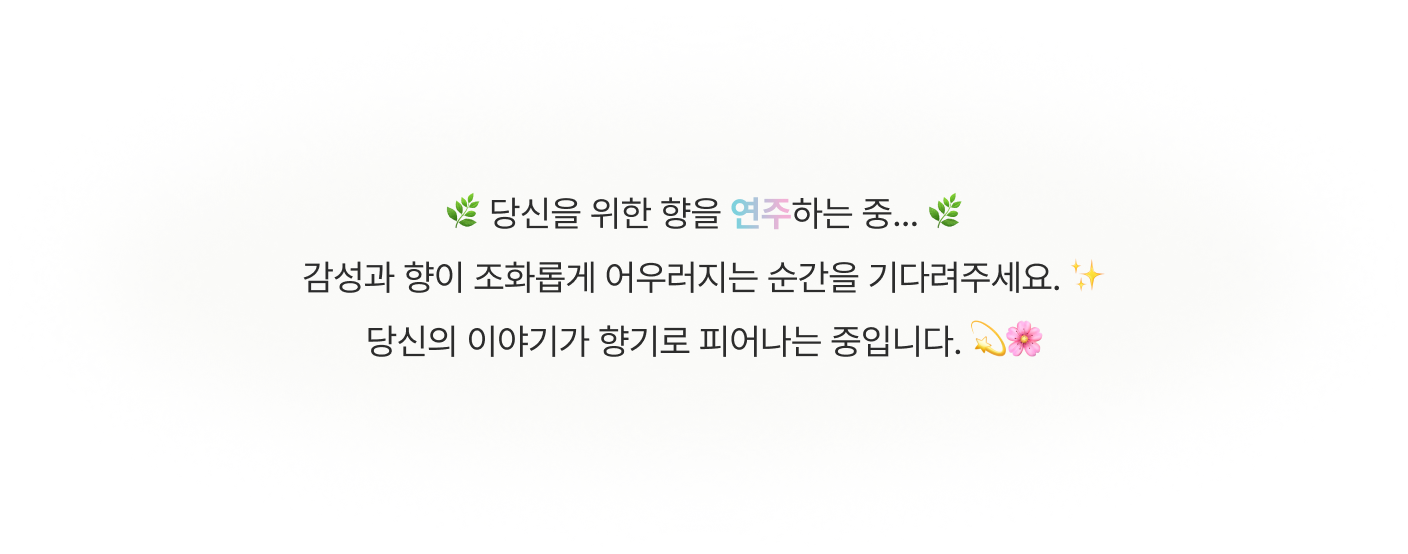
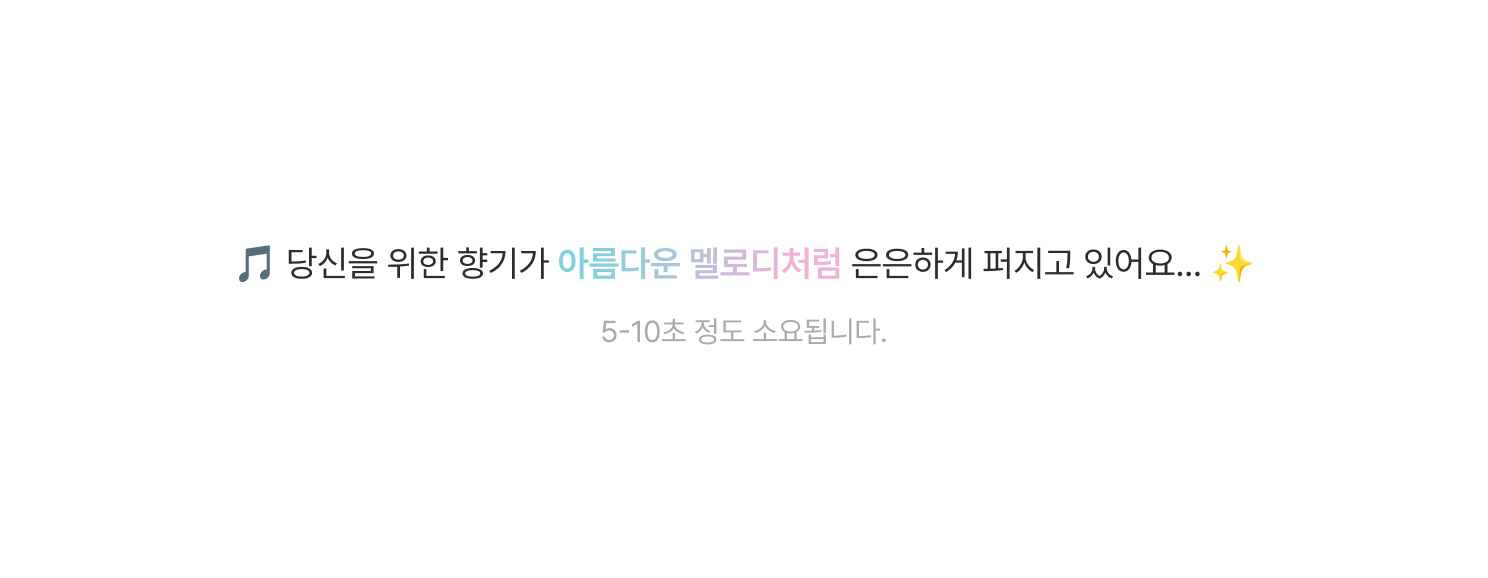
style: change loading comment box and remove padding in chat page and recoomend page

Changed region(s): [[0.1562, 0.3375, 0.8438, 0.6444]]

diff --git a/src/pages/Loading/ProduceLoadingContent.jsx b/src/pages/Loading/ProduceLoadingContent.jsx
@@ -1,7 +1,6 @@
 import { useState, useEffect, useRef } from "react";
 import { useNavigate } from "react-router-dom";
 import styled from "styled-components";
-import GradientText from "../../components/UI/common/GradientText";
 import ProduceLoadingCommentLayer from "../../assets/loading/ProduceLoadingCommentLayer";
 import ProgressBar from "../../components/UI/Chatbot/ProgressBar";
 import Modal from "../../components/UI/common/Modal";
@@ -18,47 +17,12 @@ const ContentWrapper = styled.div`
   text-align: center;
 `;
 
-const TextContainer = styled.div`
+const CommentWrapper = styled.div`
   position: relative;
-  width: 644px;
-  height: 189px;
-  display: flex;
-  flex-direction: column;
-  justify-content: center;
-  align-items: center;
-  margin-top: 219px;
-`;
-
-const StyleProduceLoadingCommentLayer = styled(ProduceLoadingCommentLayer)`
-  position: absolute;
-  top: 0;
-  left: 0;
-  width: 100%;
-  height: 100%;
+  width: 604px;
+  height: 200px;
   z-index: 1;
-`;
-
-const TextWrapper = styled.div`
-  position: absolute;
-  display: flex;
-  flex-direction: column;
-  width: 100%;
-  height: 100%;
-  justify-content: center;
-  align-items: center;
-`;
-
-const Text = styled.div`
-  font-size: 18px;
-  line-height: 150%;
-  font-weight: 350;
-  text-align: center;
-  letter-spacing: -0.011em;
-  color: #2c2c2c;
-  z-index: 1;
-  font-style: normal;
-  line-height: 180%;
-  letter-spacing: -0.011em;
+  margin-top: 206px;
 `;
 
 const ModalWrapper = styled.div`
@@ -68,10 +32,6 @@ const ModalWrapper = styled.div`
 
 const BtnWrapper = styled.div`
   margin-top: 183px;
-`;
-
-const SemiBoldText = styled.span`
-  font-weight: 600;
 `;
 
 const WS_BASE_URL = import.meta.env.VITE_WS_BASE_URL;
@@ -149,22 +109,10 @@ const ProduceLoadingContent = () => {
         </>
       ) : (
         <>
-          <TextContainer>
-            {/* <TextWrapper>
-              <Text>
-                🌿 당신을 위한 향을{" "}
-                <SemiBoldText>
-                  <GradientText>연주</GradientText>
-                </SemiBoldText>
-                하는 중... 🌿
-                <br />
-                감성과 향이 조화롭게 어우러지는 순간을 기다려주세요. ✨
-                <br />
-                당신의 이야기가 향기로 피어나는 중입니다. 💫🌸
-              </Text>
-            </TextWrapper> */}
-            <StyleProduceLoadingCommentLayer />
-          </TextContainer>
+          <CommentWrapper>
+            <ProduceLoadingCommentLayer />
+          </CommentWrapper>
+
           <ProgressBar progress={progress} />
         </>
       )}

diff --git a/src/pages/Loading/LoadingContent.jsx b/src/pages/Loading/LoadingContent.jsx
@@ -15,24 +15,11 @@ const ContentWrapper = styled.div`
   text-align: center;
 `;
 
-const TextContainer = styled.div`
+const CommentWrapper = styled.div`
   position: relative;
   width: 644px;
-  height: 189px;
-  display: flex;
-  flex-direction: column;
-  justify-content: center;
-  align-items: center;
-  margin-top: 234px;
-`;
-
-const StyledLoadingCommentLayer = styled(LoadingCommentLayer)`
-  position: absolute;
-  top: 0;
-  left: 0;
-  width: 100%;
-  height: 100%;
-  z-index: 1;
+  height: 230px;
+  margin-top: 187px;
 `;
 
 const TextWrapper = styled.div`
@@ -42,31 +29,7 @@ const TextWrapper = styled.div`
   width: 100%;
   height: 100%;
 `;
-const Text = styled.div`
-  margin-top: 68px;
-  font-size: 18px;
-  line-height: 150%;
-  text-align: center;
-  letter-spacing: -0.011em;
-  font-weight: 350;
-  color: #2c2c2c;
-  z-index: 1;
-`;
 
-const IndicateText = styled.div`
-  font-size: 15px;
-  line-height: 180%;
-  text-align: center;
-  letter-spacing: -0.011em;
-  color: #aaaaaa;
-  font-weight: 350;
-  z-index: 1;
-  margin-top: 7px;
-`;
-
-const SemiBoldText = styled.span`
-  font-weight: 450;
-`;
 const LoadingContent = () => {
   const [progress, setProgress] = useState(0);
   const navigate = useNavigate();
@@ -104,19 +67,9 @@ const LoadingContent = () => {
   return (
     <>
       <ContentWrapper>
-        <TextContainer>
-          <TextWrapper>
-            <Text>
-              🎵 당신을 위한 향기가
-              <SemiBoldText>
-                <GradientText> 아름다운 멜로디처럼 </GradientText>
-              </SemiBoldText>
-              은은하게 퍼지고 있어요... ✨
-            </Text>
-            <IndicateText>5-10초 정도 소요됩니다.</IndicateText>
-          </TextWrapper>
-          <StyledLoadingCommentLayer />
-        </TextContainer>
+        <CommentWrapper>
+          <LoadingCommentLayer />
+        </CommentWrapper>
         <ProgressBar progress={progress} />
       </ContentWrapper>
     </>

diff --git a/src/pages/Chat/ChatContent.jsx b/src/pages/Chat/ChatContent.jsx
@@ -14,7 +14,7 @@ const ContentWrapper = styled.div`
   display: flex;
   flex-direction: column;
   align-items: center;
-  z-index: 1; /* 기존 UI의 z-index */
+  z-index: 1;
   text-align: center;
 `;
 
@@ -38,7 +38,7 @@ const QuestionWrapper = styled.div`
 `;
 
 const IntroText = styled.div`
-  margin-top: 48px;
+  margin-top: 33px;
   font-size: 17px;
   line-height: 180%;
   text-align: center;
@@ -158,6 +158,7 @@ const ChatContent = () => {
           <BoldText>오늘의 이야기</BoldText>를 들려주시면, 그 감성을 담아
           어울리는 향을 연주해드릴게요. 💫🎵
         </IntroText>
+
         <ChatbotField>
           <ChatbotWrapper>
             <ChatbotIcon size="small" />

diff --git a/src/components/UI/common/StyledBtn.jsx b/src/components/UI/common/StyledBtn.jsx
@@ -31,7 +31,7 @@ export const StyledBtnWrapper = styled(Button)`
   ${({ variant }) =>
     variant === "black" &&
     `
-    background-color: #000;
+    background-color: #2C2C2C;
     color: #fff;
     border: none;
   `}
@@ -44,7 +44,7 @@ export const StyledBtnWrapper = styled(Button)`
   `}
 
   &:disabled {
-    background-color: #ccc;
+    background-color: #d3d3d3;
     color: #fafaf8;
     cursor: not-allowed;
   }
@@ -63,7 +63,6 @@ const Text = styled.span`
 
   font-family: "Pretendard";
   font-style: normal;
-  font-weight: 400;
   font-size: 20px;
   line-height: 150%;
   letter-spacing: -0.011em;

diff --git a/src/components/UI/Reco/CheckBox.jsx b/src/components/UI/Reco/CheckBox.jsx
@@ -7,7 +7,9 @@ const CheckboxContainer = styled.div`
   flex-direction: row;
   gap: 7px;
   align-items: center;
-  cursor: pointer;
+
+  font-family: "Pretendard";
+  font-style: normal;
 
   font-size: 15px;
   line-height: 180%;
@@ -20,10 +22,13 @@ const StyledCheckBox = styled.input`
   width: 15px;
   height: 15px;
   border: 1px solid #aaaaaa;
-  background-color: transparent;
+  background-color: #fafaf8;
   cursor: pointer;
   appearance: none;
   border-radius: 0;
+  margin: 0;
+
+  box-sizing: border-box;
 
   &:checked {
     background-image: url(${CheckedBox});

diff --git a/src/components/UI/Chatbot/ProgressBar.jsx b/src/components/UI/Chatbot/ProgressBar.jsx
@@ -4,7 +4,8 @@ const Container = styled.div`
   width: 768px;
   height: 7px;
   background: #fafaf8;
-  margin-top: 228px;
+  margin-top: 191px;
+  border-radius: 10px;
 `;
 
 const Filler = styled.div`
@@ -12,6 +13,7 @@ const Filler = styled.div`
   width: ${({ progress }) => progress}%;
   background: #2c2c2c;
   transition: width 0.3s ease-in-out;
+  border-radius: 10px;
 `;
 
 const ProgressBar = ({ progress }) => {

diff --git a/src/assets/loading/LoadingCommentLayer.jsx b/src/assets/loading/LoadingCommentLayer.jsx
@@ -1,12 +1,10 @@
-import loading_blur from "./loading_blur.png";
+import loading_blur from "./loading_blur_text.png";
 import styled from "styled-components";
 
 const StyledImg = styled.img`
-  width: 644px;
-  height: 180px;
+  width: 100%;
+  height: 100%;
   object-fit: cover;
-  top: 0;
-  left: 0;
   z-index: 0;
 `;
 

diff --git a/src/assets/loading/ProduceLoadingCommentLayer.jsx b/src/assets/loading/ProduceLoadingCommentLayer.jsx
@@ -2,11 +2,9 @@ import loading_blur_text from "./loading_blur_text.png";
 import styled from "styled-components";
 
 const StyledImg = styled.img`
-  width: 644px;
-  height: 180px;
+  width: 100%;
+  height: 100%;
   object-fit: cover;
-  top: 0;
-  left: 0;
   z-index: 0;
 `;
 

diff --git a/src/assets/btn_disabled_arrow.jsx b/src/assets/btn_disabled_arrow.jsx
@@ -1,8 +1,8 @@
 const BtnDisabledArrow = () => {
   return (
     <svg
-      width="8"
-      height="13"
+      width="9"
+      height="16"
       viewBox="0 0 8 13"
       fill="none"
       xmlns="http://www.w3.org/2000/svg"

diff --git a/src/assets/btn_black_arrow.jsx b/src/assets/btn_black_arrow.jsx
@@ -1,8 +1,8 @@
 const BtnBlackArrow = () => {
   return (
     <svg
-      width="10"
-      height="20"
+      width="9"
+      height="16"
       viewBox="0 0 8 13"
       fill="none"
       xmlns="http://www.w3.org/2000/svg"

diff --git a/src/pages/Recommend/RecoContent.jsx b/src/pages/Recommend/RecoContent.jsx
@@ -30,7 +30,6 @@ const ContentWrapper = styled.div`
 `;
 
 const IntroText = styled.div`
-  width: 367px;
   height: 64px;
   font-size: 18px;
   line-height: 180%;
